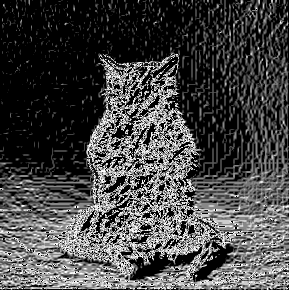
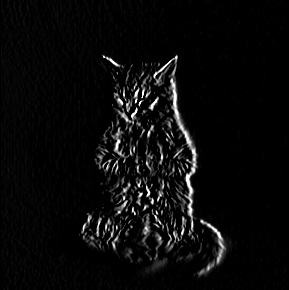
.

diff --git a/Classwork#4/test/classwork4.py b/Classwork#4/test/classwork4.py
@@ -1,0 +1,47 @@
+import cv2
+import numpy as np
+from matplotlib import pyplot as plt
+
+def show_image(image, title=''):
+    plt.imshow(image, cmap='gray')
+    plt.title(title)
+    plt.axis('off')
+    plt.show()
+
+def sobel_filter(image):
+    sobel_x = cv2.Sobel(image, cv2.CV_64F, 1, 0, ksize=3)
+    return sobel_x
+
+# 1) Create a horizontal Sobel Filter and show the result
+input_image = cv2.imread('Cat.png', 0)
+sobel_filtered_image = sobel_filter(input_image)
+show_image(sobel_filtered_image, 'Sobel Filter Result')
+
+# 2) Transform the Input image into the Frequency Domain with Fourier Transform and save the result
+input_fft = np.fft.fftshift(np.fft.fft2(input_image))
+magnitude_spectrum_input = 20 * np.log(np.abs(input_fft))
+cv2.imwrite('frequency_input.jpg', magnitude_spectrum_input)
+
+# 3) Transform the Sobel Filtered image into the Frequency Domain with Fourier Transform and save the result
+sobel_fft = np.fft.fftshift(np.fft.fft2(sobel_filtered_image))
+magnitude_spectrum_sobel = 20 * np.log(np.abs(sobel_fft))
+cv2.imwrite('frequency_sobel.jpg', magnitude_spectrum_sobel)
+
+# 4) Multiply Input and Sobel Filtered images in the Frequency Domain point by point (Dot Product) and save the result 
+result_fft = np.multiply(input_fft, sobel_fft)
+result_image = np.fft.ifft2(np.fft.ifftshift(result_fft))
+result_image = np.abs(result_image)
+result_image = cv2.normalize(result_image, None, 0, 255, cv2.NORM_MINMAX, dtype=cv2.CV_8U)
+cv2.imwrite('result_frequency.jpg', result_image)
+
+# 5) Convert the resulting image back to the Spatial Domain and save the result
+result_spatial = np.fft.ifft2(result_fft)
+result_spatial = np.abs(result_spatial)
+result_spatial = cv2.normalize(result_spatial, None, 0, 255, cv2.NORM_MINMAX, dtype=cv2.CV_8U)
+cv2.imwrite('result_spatial.jpg', result_spatial)
+
+# Show the resulting images
+show_image(magnitude_spectrum_input, 'Frequency Domain (Input Image)')
+show_image(magnitude_spectrum_sobel, 'Frequency Domain (Sobel Filter)')
+show_image(result_image, 'Result (Frequency Domain)')
+show_image(result_spatial, 'Result (Spatial Domain)')
